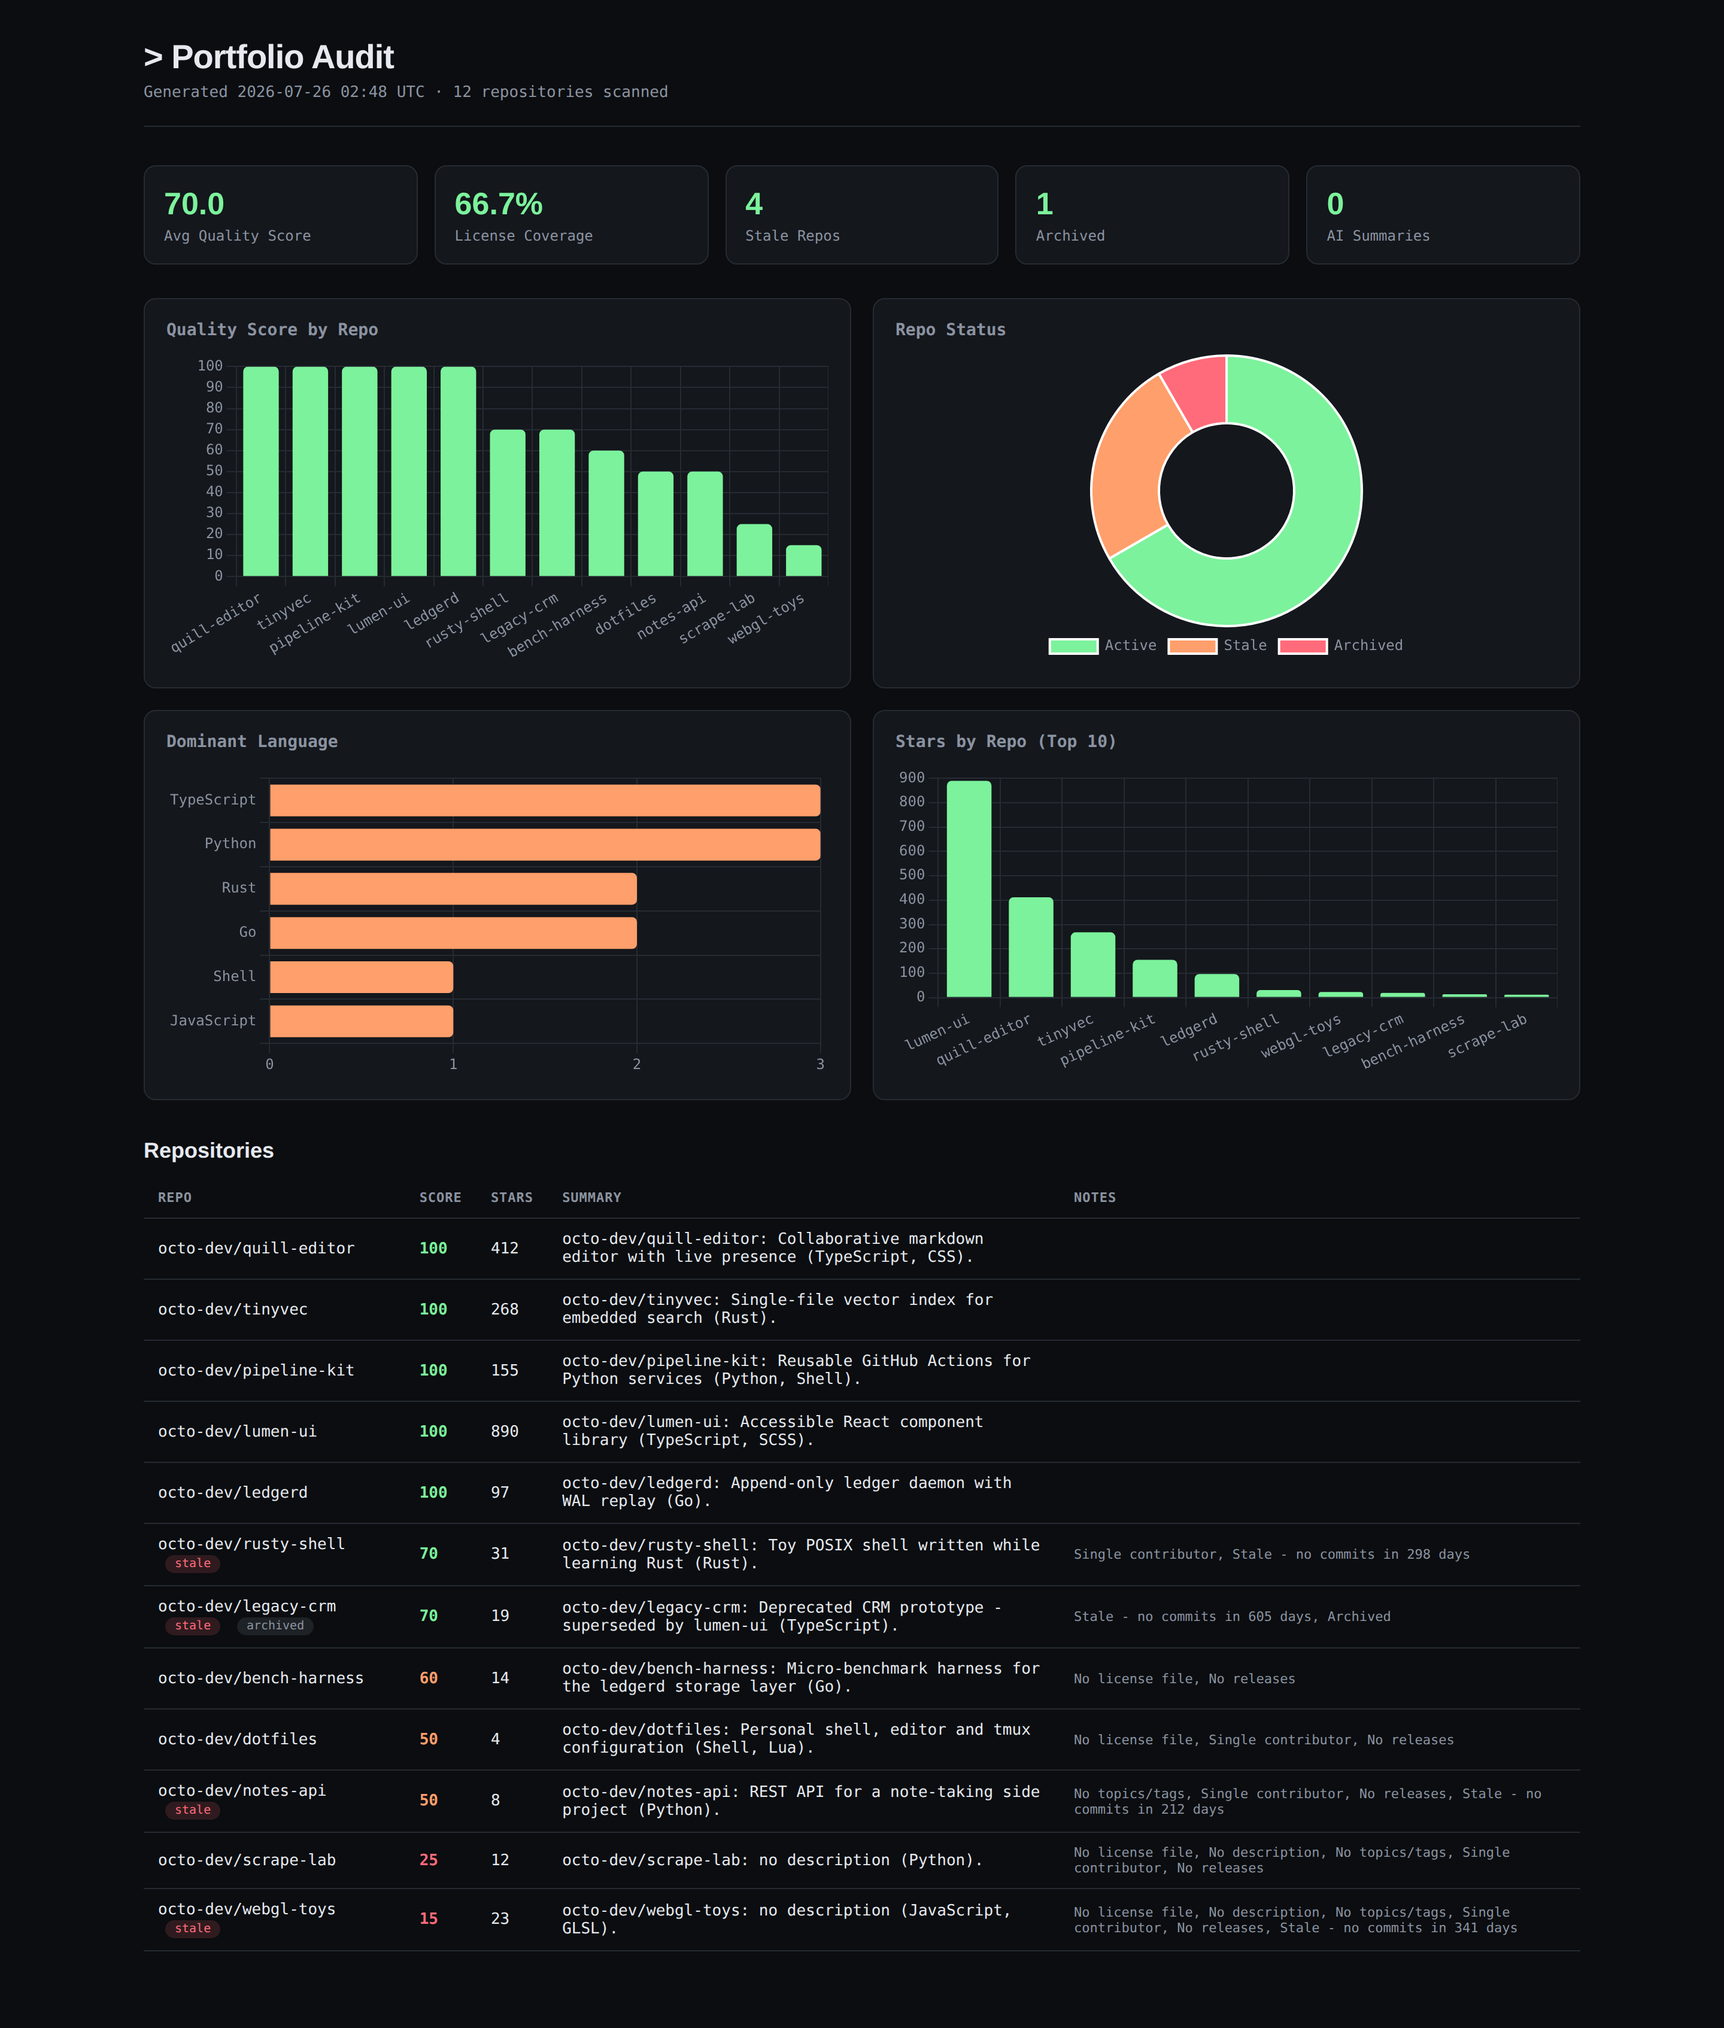
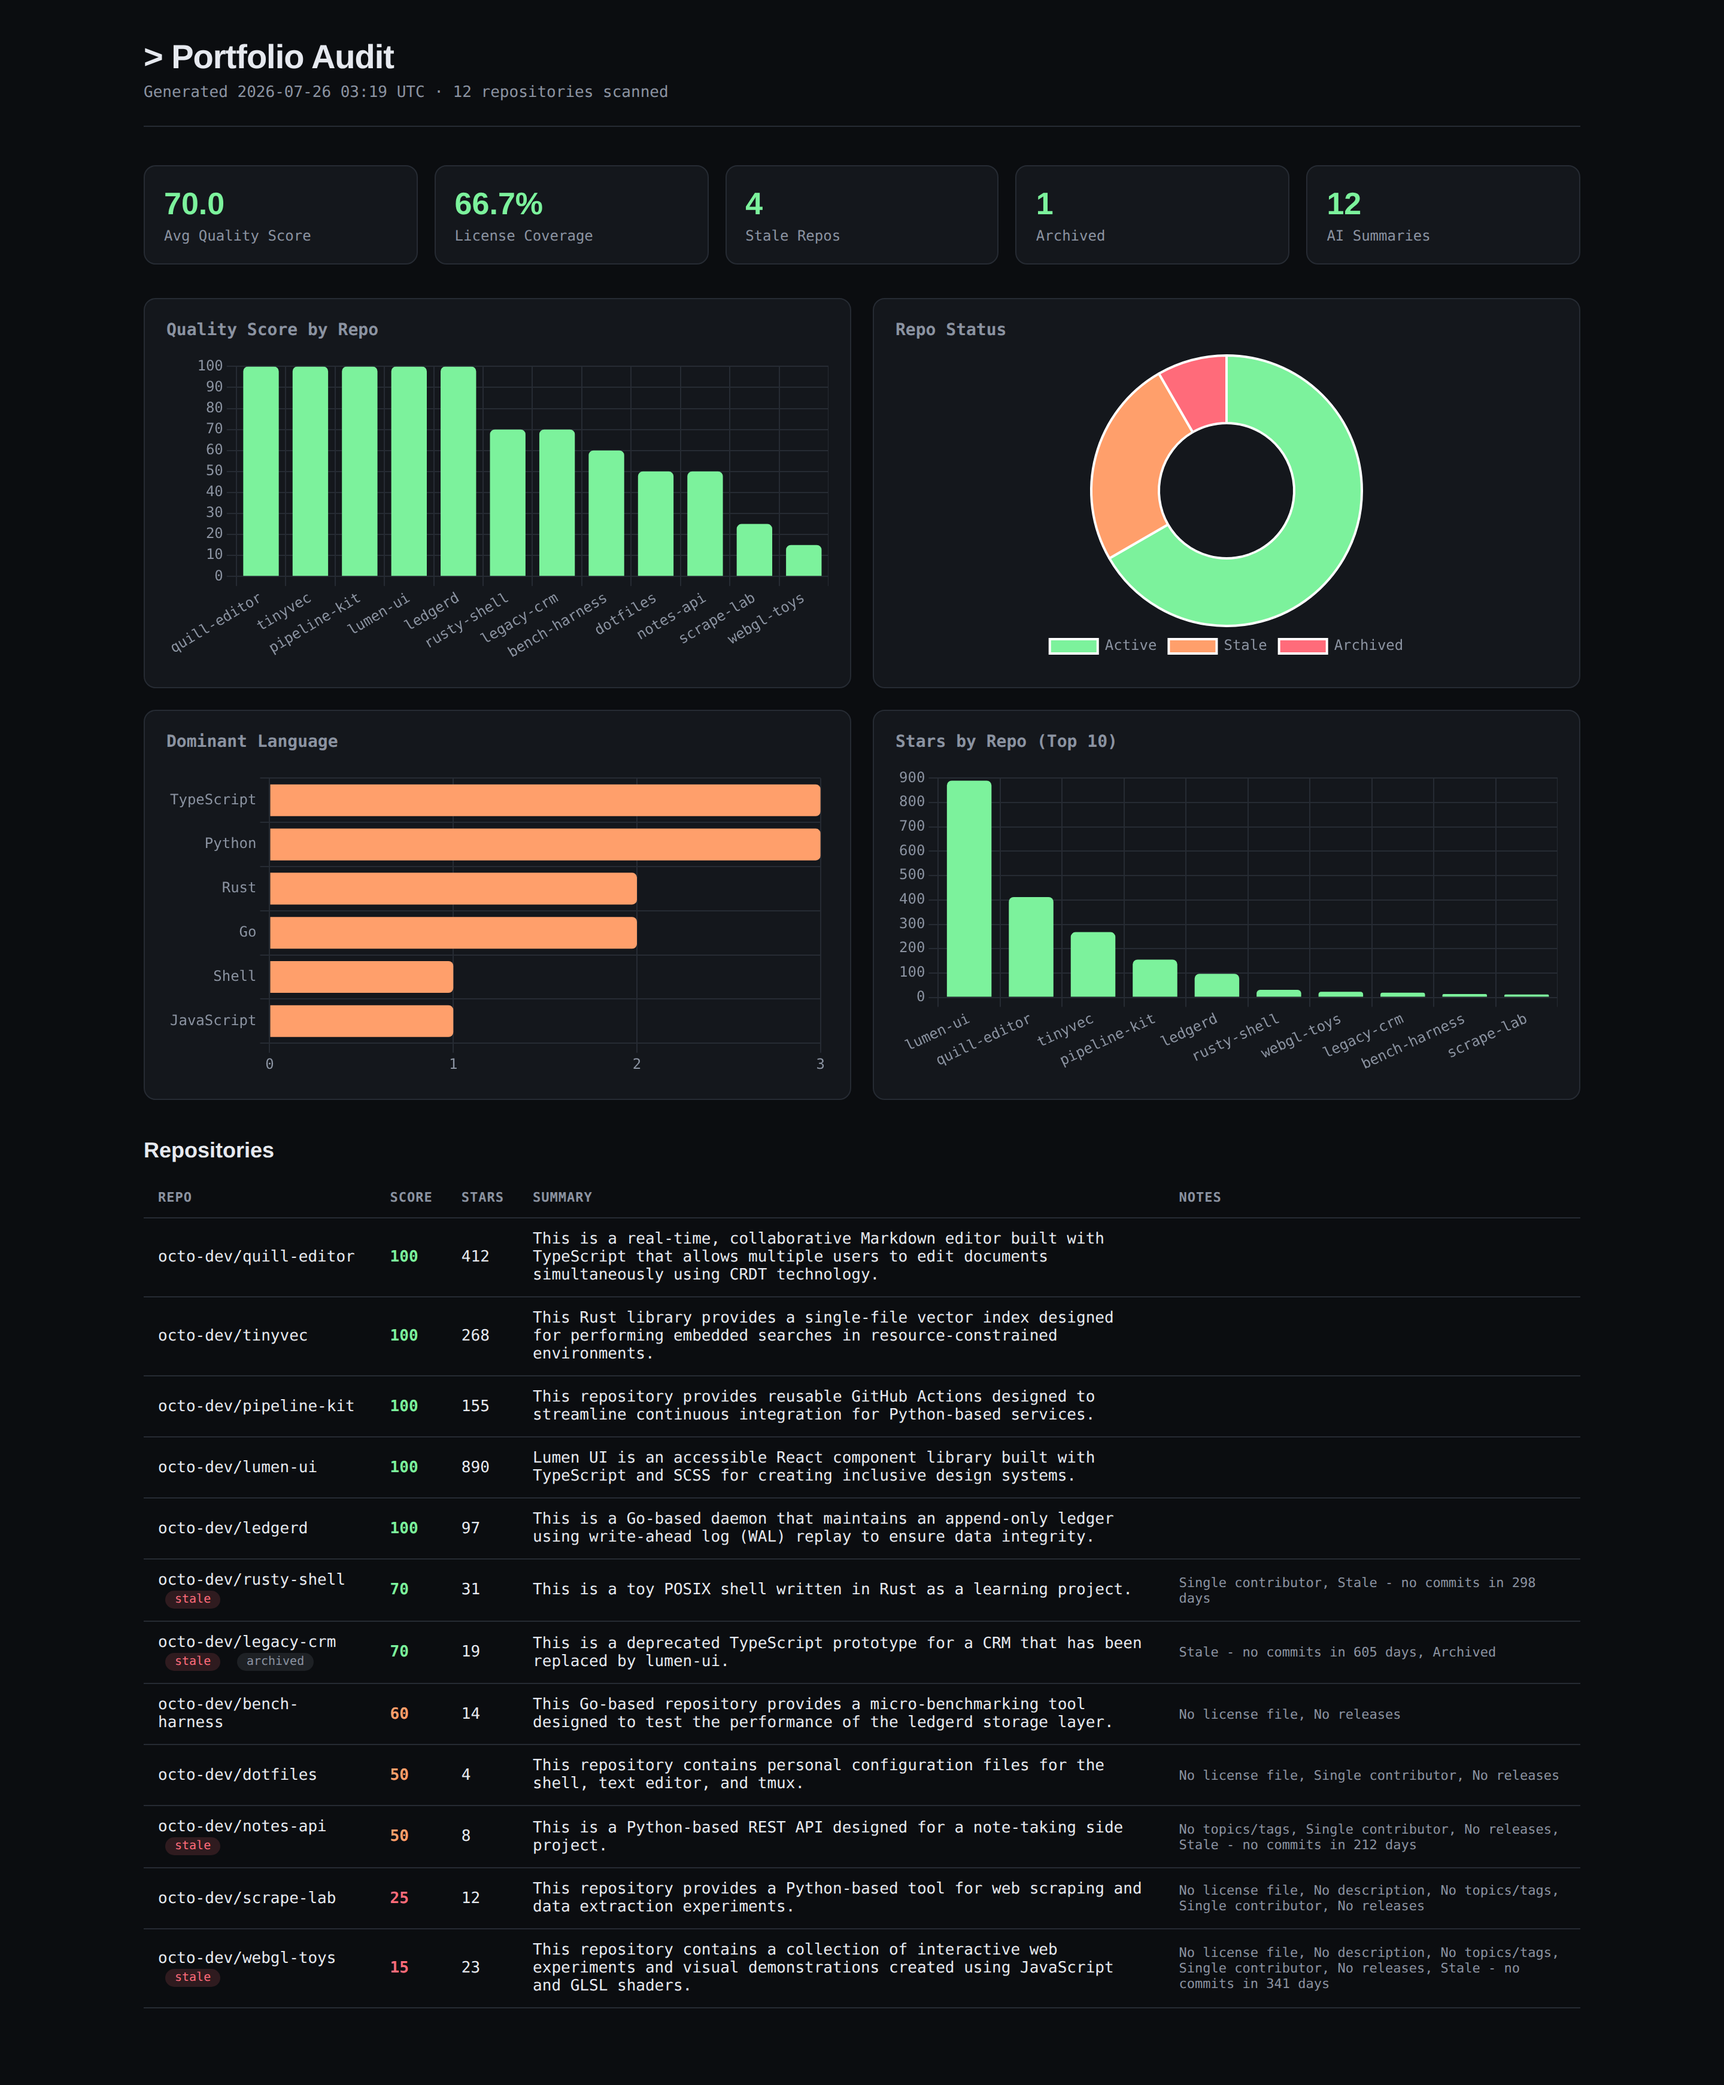
Verify the openai provider against a live endpoint; regenerate screenshots
Ran the previously-unverified --provider openai path end to end against a
real OpenAI-compatible endpoint (Featherless, google/gemma-4-26B-A4B-it):
12/12 repos summarised, summary_is_ai true throughout, ~26s for 12
sequential calls. FEATHERLESS_API_KEY is picked up without OPENAI_API_KEY
set, and the report's AI Summaries stat correctly reads 12 where the
keyless run reads 0.

Re-confirmed with real summaries present that the report still makes zero
network requests and draws all four charts, and that the key does not leak
into analysis.json, report.html or any tracked file.

Screenshots regenerated from that run, so docs/images/ now shows real model
output instead of metadata fallbacks.

New finding, documented rather than code-fixed: summaries for repos with no
description are confabulated from the repo name and rendered in the same
confident voice as grounded ones. scrape-lab has no description, no topics
and no README input, and got "provides a Python-based tool for web scraping
and data extraction experiments" - inferred entirely from its name. The
summary_is_ai flag separates AI from fallback but not grounded-AI from
inferred-AI, and the report gives the reader no signal which is which.
README now says plainly to read the summary column as a guess and to
cross-check it against the No description note in the same row. A real fix
is a product decision: constrain the model when the description is absent,
or mark inferred summaries in the report.
[…]

diff --git a/AUDIT.md b/AUDIT.md
@@ -208,9 +208,9 @@ $ .venv/bin/pytest -q          # without the [openai] extra
   previous audit: the sandbox proxy blocks `/user/repos` and `/users/*/repos`.
   Only error paths were exercised. This remains the one untested link in the
   chain and needs a real-token smoke test.
-- **AI summary generation against a live LLM API.** No `ANTHROPIC_API_KEY` /
-  `OPENAI_API_KEY` in this environment, so only the no-key fallback path ran.
-  The report's `AI Summaries` stat reads 0 in every artifact produced here.
+- **The Anthropic provider** specifically. The `openai` provider path is now
+  verified end to end (see below), but `AnthropicSummaryClient` still has no
+  live run behind it.
 - **Rate-limit and pagination behaviour** on an account with 100+ repos.
 
 ## Open findings (not fixed)
@@ -220,3 +220,41 @@ $ .venv/bin/pytest -q          # without the [openai] extra
 | 7 | P2 | `requests_cache.install_cache()` still runs at `client.py` import time, monkey-patching `requests` process-wide. Previous audit's finding #6 | Unchanged assessment: a design smell, not a correctness bug for the CLI. Moving it into `GitHubClient.__init__` changes caching semantics for any existing embedder |
 | 8 | P2 | `gha scan` writes `portfolio.json` non-atomically, so an interrupted scan still corrupts the file — `analyze` now reports it clearly (finding 2) but `scan` should write to a temp file and rename | Detection was the user-visible half; the atomic-write fix belongs with a broader `scan` resilience pass (resume, rate-limit backoff) |
 | 9 | P3 | `--incremental` remains an accepted no-op | Documented as a no-op in the README options table and the architecture doc rather than silently ignored |
+
+## Addendum — live LLM provider run (2026-07-26)
+
+The `openai` provider path, listed as unverified above, was subsequently
+exercised against a real OpenAI-compatible endpoint.
+
+```
+$ export FEATHERLESS_API_KEY=rc_...
+$ gha analyze --input examples/sample-portfolio.json --output <out> \
+              --provider openai \
+              --base-url https://api.featherless.ai/v1 \
+              --model google/gemma-4-26B-A4B-it
+Avg quality score: 70.0 | License coverage: 66.7%
+real  0m25.781s
+$ jq .insights.ai_summaries_generated <out>/analysis.json
+12
+```
+
+| Check | Result |
+|---|---|
+| `--provider openai` + `--base-url` + `--model` reach a third-party endpoint | ✅ 12/12 repos summarised, `summary_is_ai: true` throughout |
+| `FEATHERLESS_API_KEY` picked up without `OPENAI_API_KEY` set | ✅ |
+| Report `AI Summaries` stat reflects real calls only | ✅ reads 12, was 0 on the keyless run |
+| Throughput | 12 sequential calls in ~26s (~2.2s/repo); no batching or concurrency |
+| Report still network-free with AI summaries present | ✅ 0 failed requests, 4 charts, re-verified in headless Chromium |
+| API key leakage into `analysis.json` / `report.html` / repo files | ✅ none (`grep -rl` for the key across all outputs and tracked files: no hits) |
+
+Screenshots in `docs/images/` were regenerated from this run, so they show
+real model output rather than metadata fallbacks.
+
+### New finding
+
+| # | Severity | Finding | Status |
+|---|---|---|---|
+| 10 | P2 — misleading output | **Summaries for repos with no description are confabulated from the repo name and presented in the same confident voice as grounded ones.** `scrape-lab` (no description, no topics, languages `{"Python": 42000}`) got *"provides a Python-based tool for web scraping and data extraction experiments"* — inferred entirely from the eleven-character repo name. `webgl-toys` behaved the same way. The report gives the reader no signal that one summary is grounded in a real description and another is a guess | Documented, not code-fixed. `summary_is_ai` distinguishes AI from fallback but **not** grounded-AI from inferred-AI. README now carries an explicit "read AI summaries as guesses, not findings" section pointing readers at the `No description` note in the same row. A real fix would either pass the description's absence to the model as a constraint, or flag inferred summaries in the report UI — both are product decisions beyond this audit |
+
+This matters more here than it would elsewhere: the project's stated premise is
+"proof, not vibes", and this is the one column in the report that is vibes.

diff --git a/README.md b/README.md
@@ -17,8 +17,8 @@ open reports/report.html
 ![Aletheia portfolio report — score, license coverage, staleness and language charts](docs/images/report-hero.png)
 
 <sub>Generated from `examples/sample-portfolio.json` (sample data, not a real
-account) — reproduce it in one command with the [demo](#demo-no-github-token-needed)
-below.</sub>
+account); summaries are real model output via `--provider openai`. Reproduce
+it in one command with the [demo](#demo-no-github-token-needed) below.</sub>
 
 ## The pipeline
 
@@ -132,11 +132,12 @@ gha analyze --input ~/audits/2026-07/portfolio.json --output ~/audits/2026-07
 # Anthropic summaries with a specific model
 gha analyze --model claude-haiku-4-5-20251001
 
-# Any OpenAI-compatible endpoint
+# Any OpenAI-compatible endpoint (this exact invocation is verified working)
 pip install -e ".[openai]"
+export FEATHERLESS_API_KEY=rc_...
 gha analyze --provider openai \
             --base-url https://api.featherless.ai/v1 \
-            --model meta-llama/Meta-Llama-3.1-8B-Instruct
+            --model google/gemma-4-26B-A4B-it
 
 # Force the no-AI path (deterministic, free, no network beyond the scan)
 env -u ANTHROPIC_API_KEY gha analyze
@@ -200,10 +201,20 @@ Stale repos: 4 | Archived: 1
 Report: reports/demo/report.html
 ```
 
-The demo runs with no LLM key, so `AI Summaries` reads `0` and every summary
-is the metadata fallback. Export `ANTHROPIC_API_KEY` and re-run to see the
-AI path (12 short calls). See [docs/demo.md](docs/demo.md) for a scripted
-walkthrough.
+That run uses no LLM key, so `AI Summaries` reads `0` and every summary is the
+metadata fallback. Add a key to get the AI path — 12 short calls, about 25
+seconds:
+
+```bash
+export FEATHERLESS_API_KEY=rc_...
+gha analyze --input examples/sample-portfolio.json --output reports/demo \
+            --provider openai \
+            --base-url https://api.featherless.ai/v1 \
+            --model google/gemma-4-26B-A4B-it
+```
+
+That is how the screenshots above were made. See [docs/demo.md](docs/demo.md)
+for a scripted walkthrough.
 
 ## What the report contains
 
@@ -250,8 +261,25 @@ Repos with no push in 180 days are flagged **stale**.
 Not yet implemented (do not rely on these): CI/CD or security analysis,
 merge/dedupe suggestions, action-plan generation, PDF export, and incremental
 (cache-based) scanning — the `--incremental` flag is currently a no-op.
-Summaries are generated from repo *metadata* (name, description, languages,
-topics), never from source code.
+
+### Read AI summaries as guesses, not findings
+
+Summaries are generated from repo **metadata only** — name, description,
+languages, topics. No source code is ever read. That has a consequence worth
+knowing before you quote a summary at anyone:
+
+> **When a repo has no description, the model infers one from the name and
+> still writes it in a confident voice.**
+
+In the sample report, `scrape-lab` has no description, no topics and no
+README input, and the summary reads *"provides a Python-based tool for web
+scraping and data extraction experiments."* That is a plausible guess from six
+characters of repo name, presented as fact. It may well be wrong.
+
+The scores and the notes column are computed from real metadata and are
+trustworthy. The summary column is a convenience. Cross-check it against the
+`No description` note in the same row — and if you need to know what a repo
+actually does, that is what the other two tools in the pipeline are for.
 
 ## Troubleshooting
 

diff --git a/docs/demo.md b/docs/demo.md
@@ -30,7 +30,19 @@ pip install -e .
 pytest                                   # sanity: 20 passed
 
 export GITHUB_TOKEN=ghp_...              # version B only
-export ANTHROPIC_API_KEY=sk-ant-...      # optional, makes summaries real
+
+# Optional, makes summaries real. Either provider works:
+export ANTHROPIC_API_KEY=sk-ant-...
+# ...or any OpenAI-compatible endpoint (verified working):
+export FEATHERLESS_API_KEY=rc_...
+```
+
+With a key, add these flags to every `analyze` below — 12 repos takes about
+25 seconds:
+
+```bash
+--provider openai --base-url https://api.featherless.ai/v1 \
+--model google/gemma-4-26B-A4B-it
 ```
 
 Then, critically — **pre-run the scan**:
@@ -145,6 +157,11 @@ matter, what's broken in this one, and whether it does what it claims.
 - **Don't overclaim in the room.** The tool scores metadata, not code. Saying
   so out loud is what makes the next two tools sound necessary rather than
   redundant.
+- **Know which column is soft.** If someone asks how the summaries work, the
+  honest answer is that a repo with no description gets a summary the model
+  guessed from its name. Volunteer it before you're caught by it — in the
+  sample report, `scrape-lab` is exactly that case. Scores and notes are
+  computed from real metadata; the summary column is a convenience.
 
 ## Recording it
 
